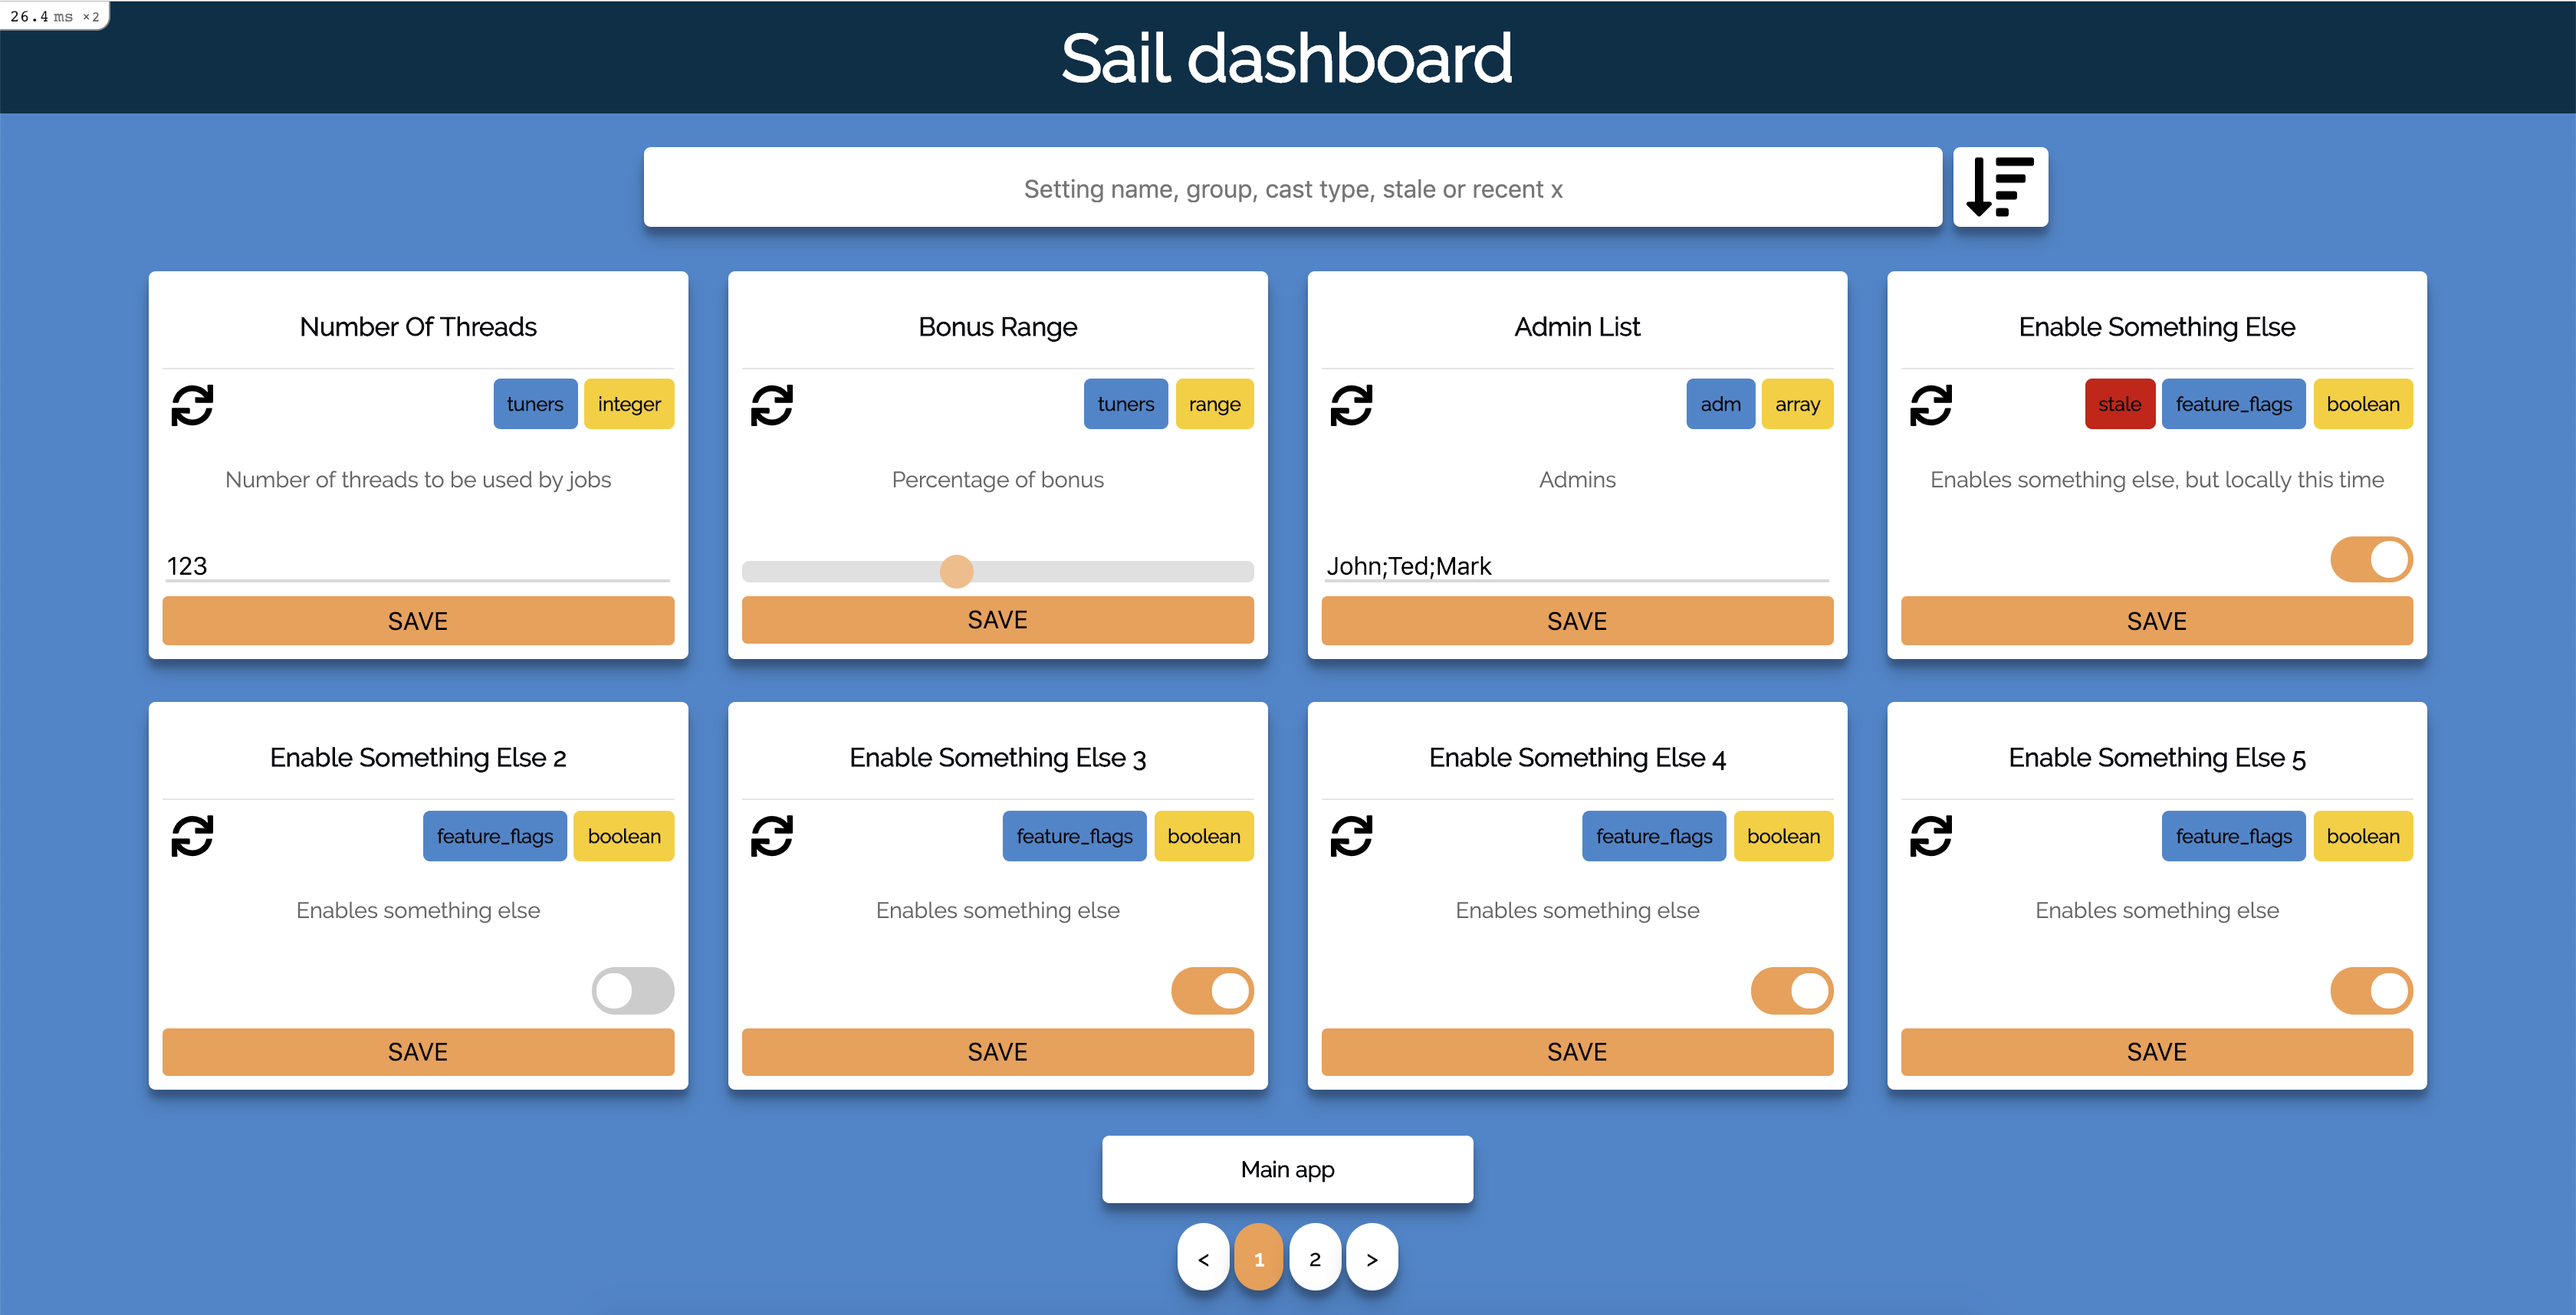
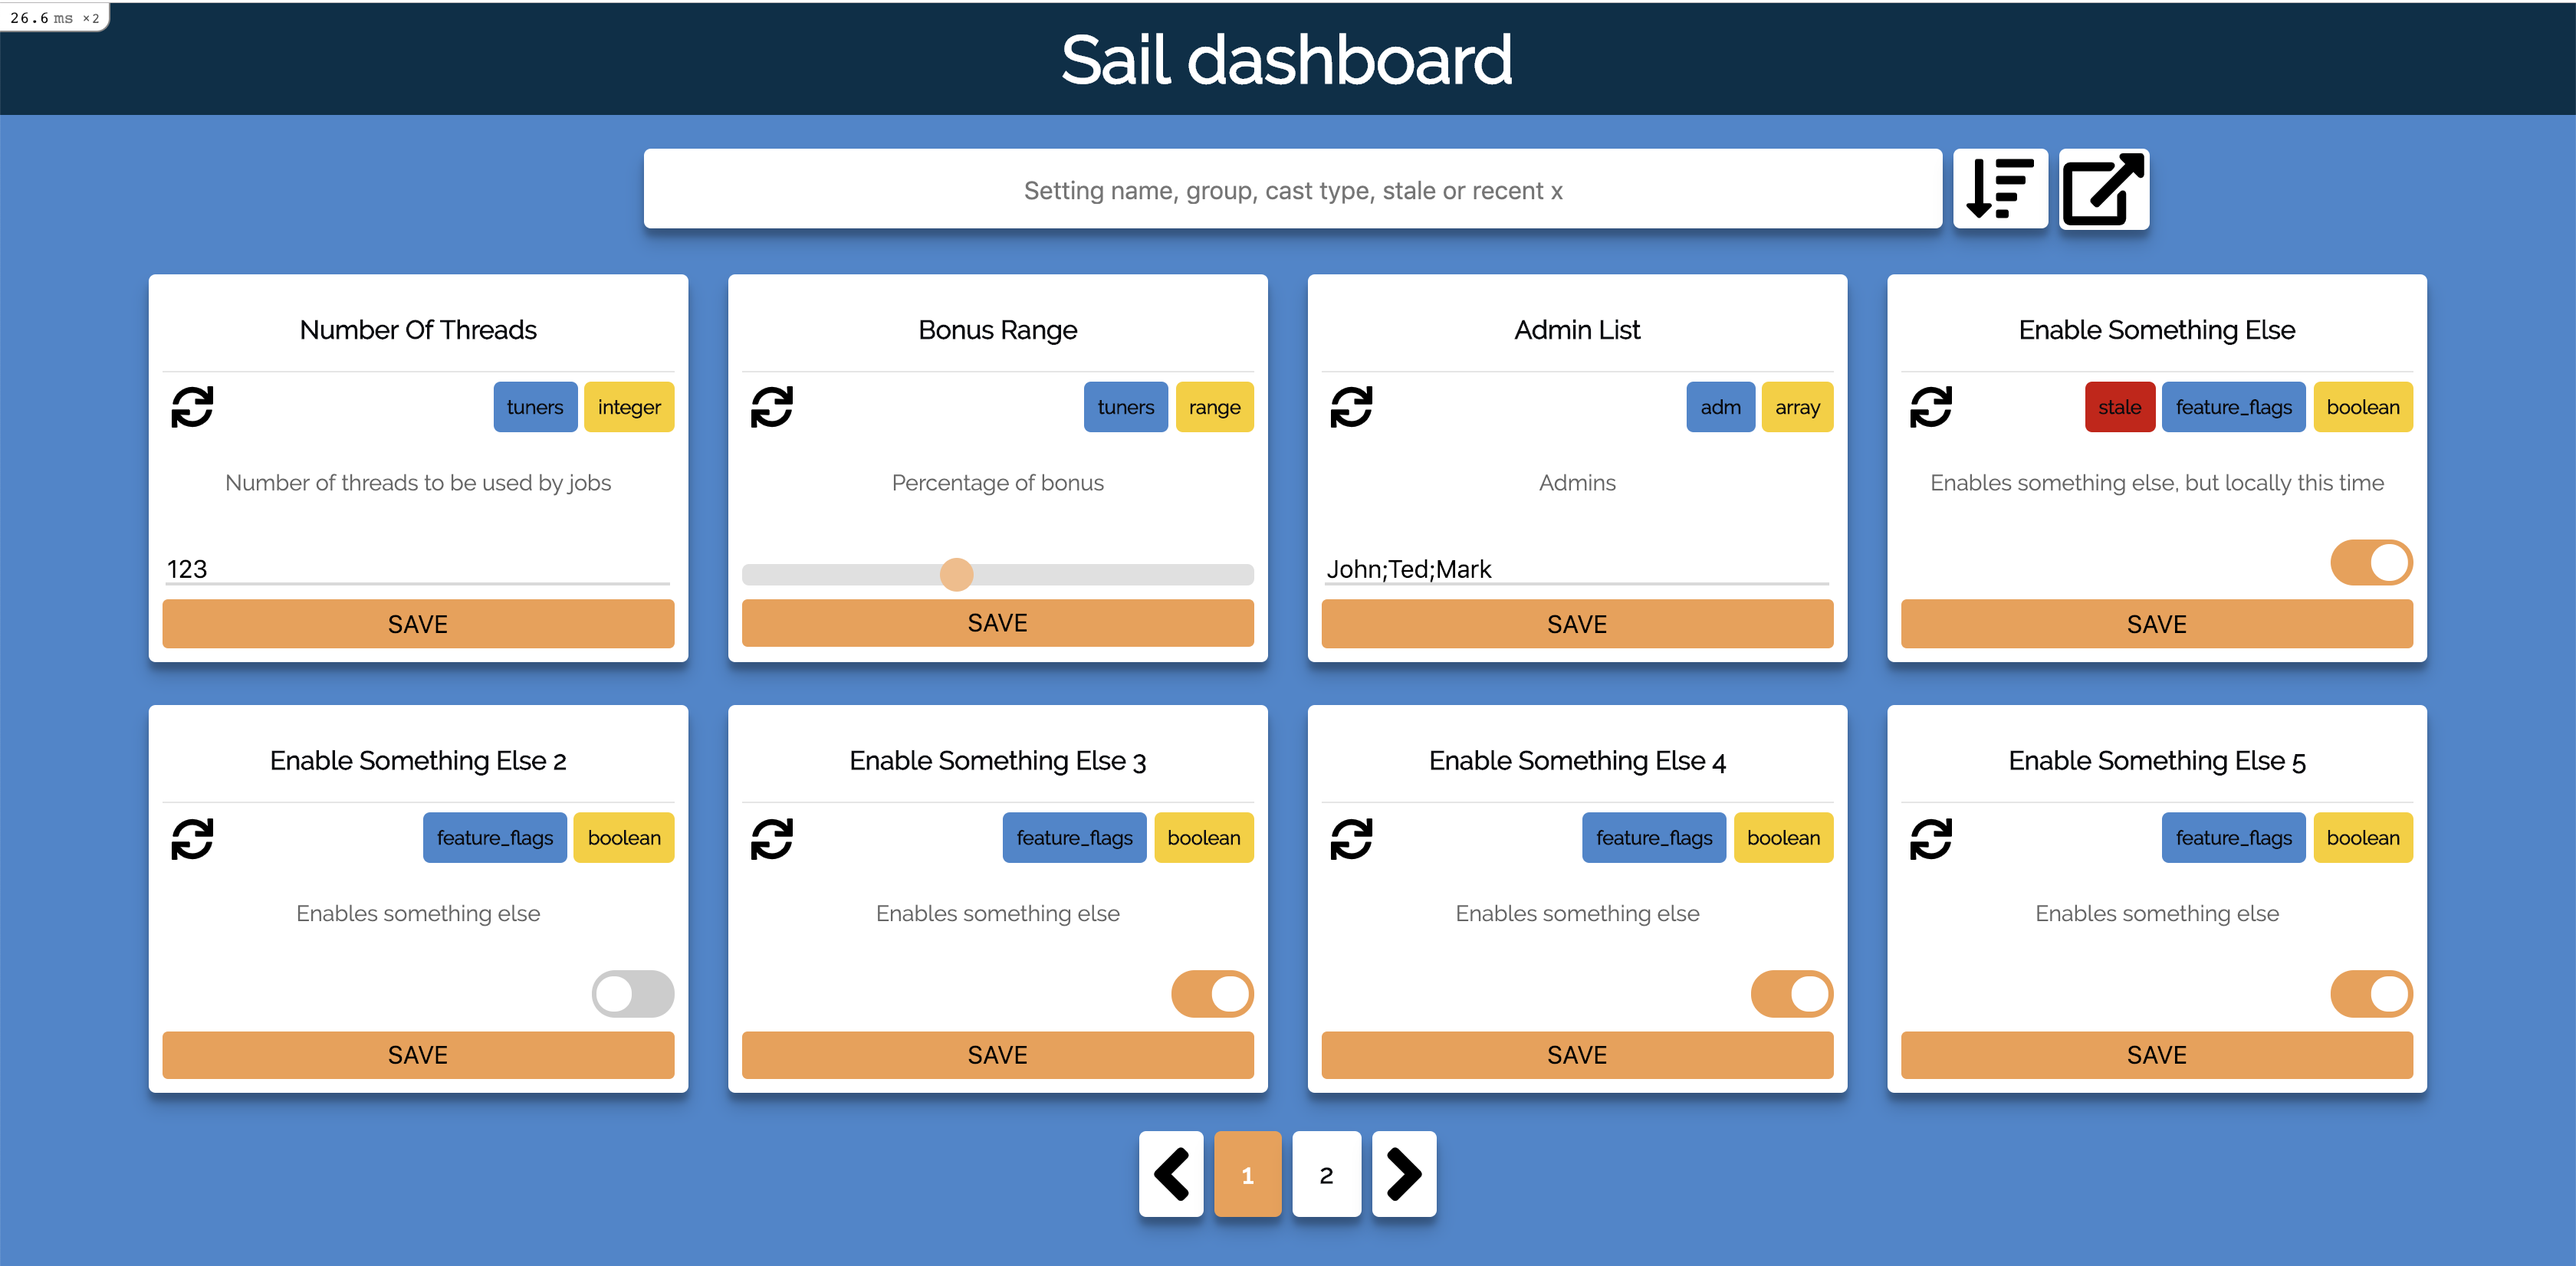
Update changelog, README image and prepare for 2.1.0 release

diff --git a/lib/sail/version.rb b/lib/sail/version.rb
@@ -1,5 +1,5 @@
 # frozen_string_literal: true
 
 module Sail
-  VERSION = "2.0.0"
+  VERSION = "2.1.0"
 end

diff --git a/CHANGELOG.md b/CHANGELOG.md
@@ -1,3 +1,5 @@
+## 2.1.0 ##
+
 * Add stale labels to settings older than the configured number of days
 
 *[@vinistock]*
@@ -47,6 +49,10 @@
 *[@johnthethird]*
 
 * Update pagination icons
+
+*[@vinistock]*
+
+* Refactor and move main app icon to the search portion of the dashboard
 
 *[@vinistock]*
 
